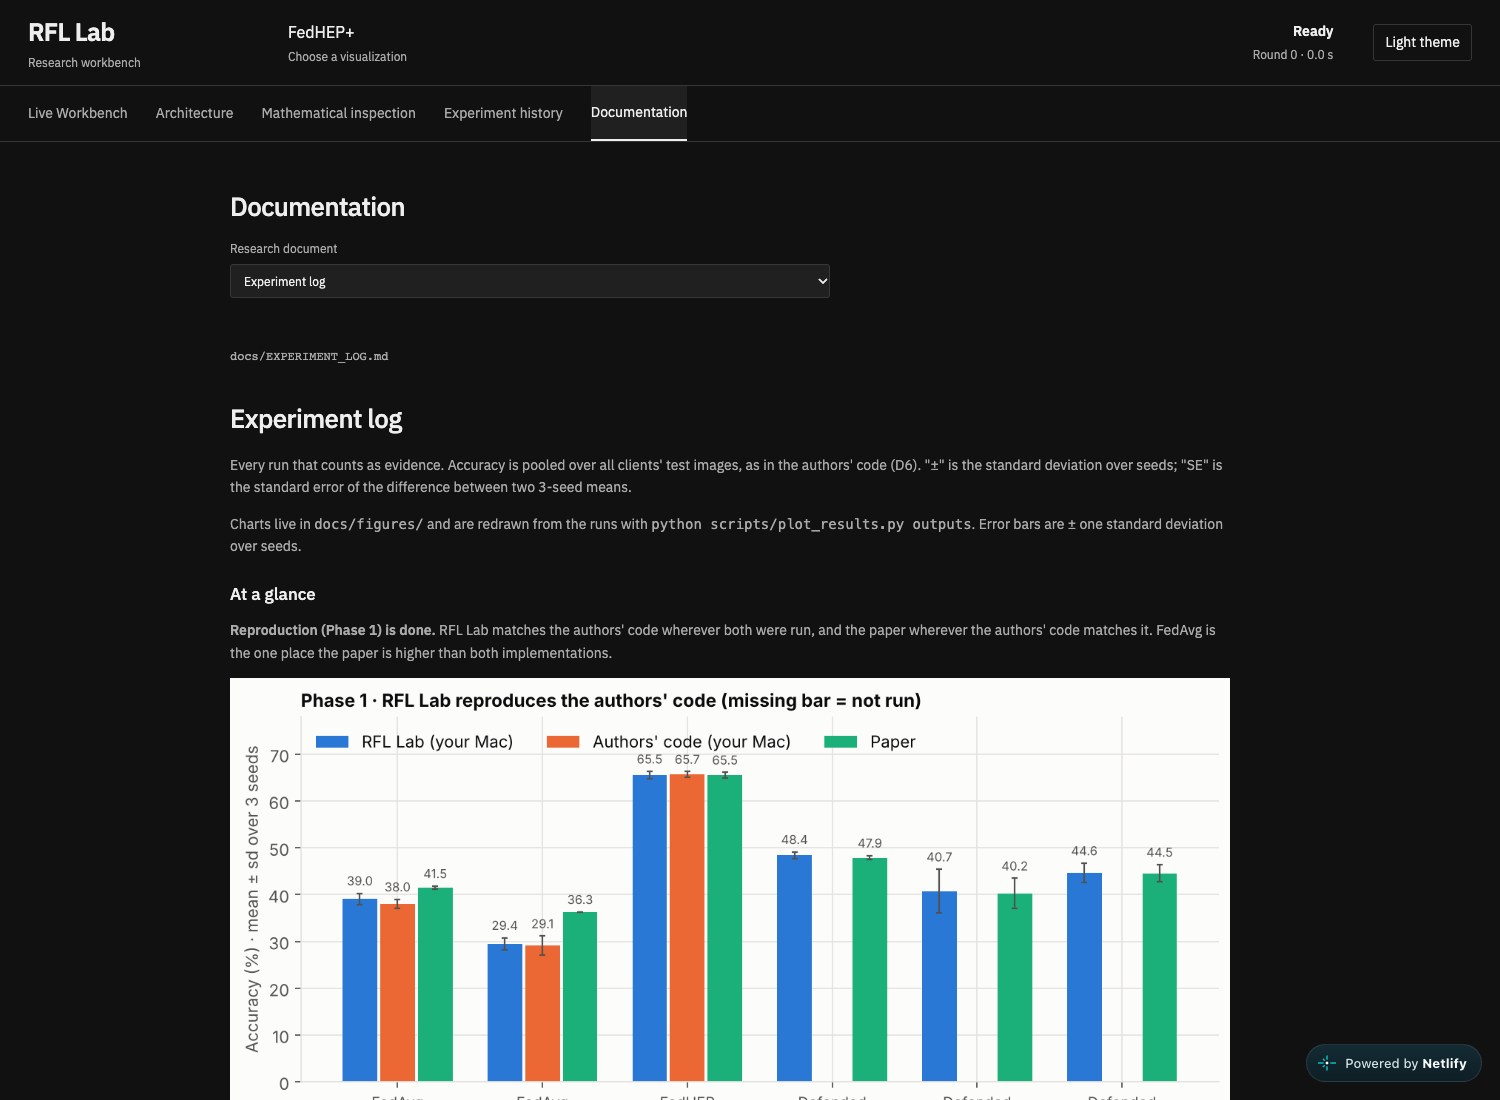
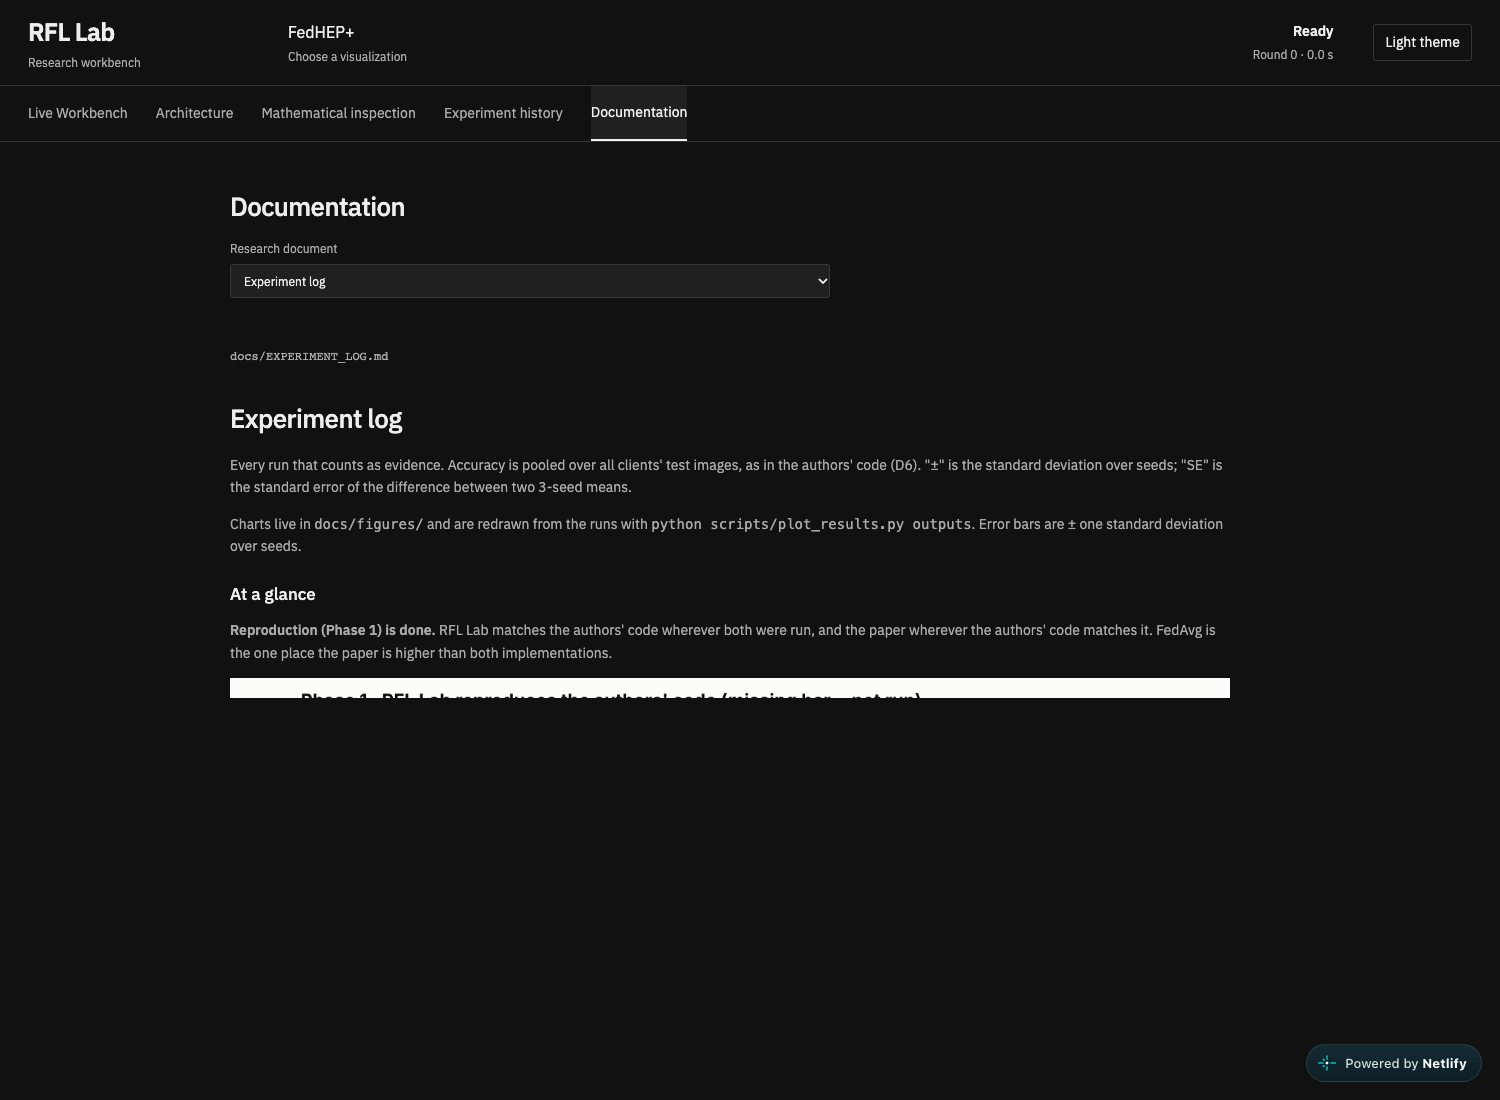
Record deployed CPU verification and keep connection credentials paired

Changed region(s): [[0.1533, 0.6182, 0.828, 1.0]]

diff --git a/visualizer/frontend/app/page.tsx b/visualizer/frontend/app/page.tsx
@@ -152,7 +152,7 @@ export default function Workbench() {
       if (target) setView("Experiment history");
       const key = new URLSearchParams(url.hash.slice(1)).get("cpu-key");
       const endpoint = new URLSearchParams(url.hash.slice(1)).get("cpu-api");
-      if (endpoint) sessionStorage.setItem("rfl-cpu-url", endpoint);
+      if (endpoint && key) sessionStorage.setItem("rfl-cpu-url", endpoint);
       if (key) {
         sessionStorage.setItem("rfl-cpu-key", key);
         url.hash = "";

diff --git a/visualizer/docs/VALIDATION.md b/visualizer/docs/VALIDATION.md
@@ -54,3 +54,5 @@ A browser regression caught a late model-schema response overwriting freshly edi
 Playback checks hold the inspection cursor while packets animate. The live-run check holds the cursor through completed training, then verifies that Next operation advances it. Actual training continues in the background. Curated history excludes these visualization runs.
 
 The deployed browser checks verify a configuration permalink beyond the first 25 history entries, its expanded saved configuration and its chart. The private CPU connection uses an authenticated, temporary Cloudflare tunnel through an allowlisted same-origin Netlify proxy. Local DNS and IPv6 routing were intermittent during verification. Browser checks support an explicitly verified IPv4 address through `RFL_TEST_IP`.
+
+Production run `30b9dbefbb8d46b8a32a29d103e379d5` completed through the deployed sidebar with the same four-client, two-parent configuration described above. The browser assertions verified the submitted request, real initialization, total training sample count, CPU device, alpha, attacker count, completed status, held inspection cursor and manual Next action. The run remained excluded from curated history. The production configuration and playback checks reported zero page JavaScript errors.
